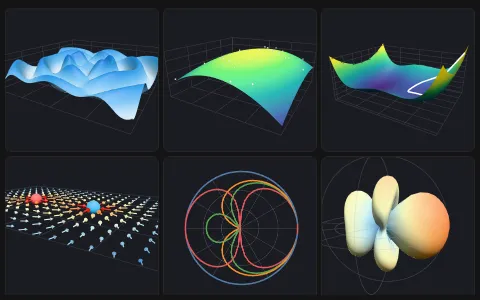
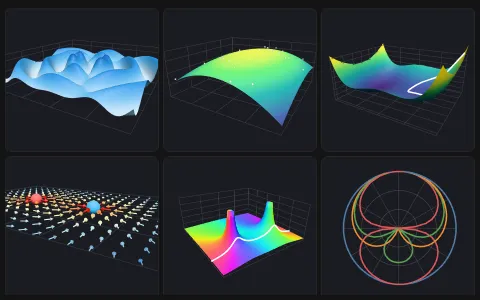
Domain colouring: a cyclic 'hue' colour scheme, height fn giving { y, ...fields } to colour by; science page gains a filter's poles and its frequency response

Changed region(s): [[0.375, 0.57, 0.6562, 0.96], [0.6875, 0.57, 0.9688, 0.96], [0.0, 0.15, 0.3438, 0.42]]

diff --git a/demos/science.js b/demos/science.js
@@ -28,6 +28,10 @@ const CARDS = [
     note: 'The field round two charges on a plane. Arrow lengths and colours follow the log of its strength. Change the second charge and the field swings.',
   },
   {
+    name: 'filter', title: 'A filter\'s poles',
+    note: 'A low-pass filter\'s transfer function over the complex s-plane: height its size |H(s)|, colour its phase, round the hue wheel. The two spikes are its poles. Along the white line - the imaginary axis, s = jω - the height is its frequency response: less damping pulls the poles towards it, and a resonance peak rises.',
+  },
+  {
     name: 'microphones', title: 'Microphone patterns',
     note: 'The datasheet picture: how a microphone hears from each direction, in dB, one curve per pattern - polar data, read off its labelled rings, with 0° - straight ahead - at the top and the angles turning clockwise, as angles: { zero, clockwise } sets them.',
   },
@@ -45,7 +49,7 @@ export default function run({ canvas }) {
   return cardPage({ canvas, cards: CARDS, examples: EXAMPLES, source })
 }
 
-const EXAMPLES = { waves, response, descent, field, microphones, antenna, orbitals }
+const EXAMPLES = { waves, response, descent, field, filter, microphones, antenna, orbitals }
 
 // waves
 function waves({ canvas, slider }) {
@@ -153,6 +157,51 @@ function field({ canvas, slider }) {
   })
   show()
   slider('second charge', -2, 2, p.q, (q) => { p.q = q; plot.update({ params: p }); show() }, 0.1)
+  return view
+}
+// end
+
+// filter
+function filter({ canvas, slider }) {
+  const view = new View({ canvas, orbit: true, background: BG, camera: { position: [13, 8.5, 9], target: [0, 0.8, 0] } })
+  const p = { frequency: 1, damping: 0.25 }
+  // H(s) = w0² / (s² + 2ζw0 s + w0²) at s = σ + jω: its size, capped where it runs off to the poles,
+  // and its phase
+  const CAP = 5
+  const H = (sigma, omega, { frequency: w, damping: d }) => {
+    const re = sigma * sigma - omega * omega + 2 * d * w * sigma + w * w, im = 2 * sigma * omega + 2 * d * w * omega
+    return { size: (w * w) / Math.hypot(re, im), phase: -Math.atan2(im, re) }
+  }
+  const ranges = { x: { domain: [-2, 0.5], title: 'σ' }, z: { domain: [-2, 2], title: 'jω' }, y: { domain: [0, CAP], title: '|H|' } }
+  const plot = view.scene.add(chart({
+    mark: 'surface', ...ranges, samples: 80, params: p, legend: false,
+    fn: (sigma, omega, params) => {
+      const h = H(sigma, omega, params)
+      return { y: Math.min(h.size, CAP), phase: h.phase }
+    },
+    color: { field: 'phase', scale: { scheme: 'hue', domain: [-Math.PI, Math.PI] } },
+  }))
+  // the frequency response: the surface along the imaginary axis, a hair above it
+  const pinned = (field, c) => ({ field, scale: { domain: c.domain, nice: false } })
+  const response = () => Array.from({ length: 161 }, (_, i) => {
+    const omega = -2 + i / 40
+    return { sigma: 0, omega, size: Math.min(H(0, omega, p).size, CAP) + 0.04 }
+  })
+  const line = view.scene.add(chart({
+    mark: 'curve', data: response(), x: pinned('sigma', ranges.x), z: pinned('omega', ranges.z), y: pinned('size', ranges.y),
+    // in the surface's box, not a curve's own cube
+    color: '#ffffff', size: 3, box: [10, 4, 10], equal: false, frame: false, tooltip: false, transition: false,
+  }))
+  view.scene.add(new Label({
+    content: tex('H(s) = \\frac{\\omega_0^2}{s^2 + 2\\zeta\\omega_0 s + \\omega_0^2}'), text: 'H(s) = w0² / (s² + 2ζ w0 s + w0²)',
+    position: [-5, 6, -5], edge: 'left', className: 'maths-tex', overlap: 'show',
+  }))
+  const show = () => {
+    plot.update({ params: p })
+    line.update(response())
+  }
+  slider('frequency ω₀', 0.5, 1.5, p.frequency, (v) => { p.frequency = v; show() })
+  slider('damping ζ', 0.12, 1, p.damping, (v) => { p.damping = v; show() }, 0.01)
   return view
 }
 // end

diff --git a/src/charts/functions.js b/src/charts/functions.js
@@ -158,7 +158,8 @@ export function sampleFunction(input) {
   return fail('chart()', `'fn' is plotted as mark: 'surface', 'curve', 'vector', 'line', 'area' or 'bar', not ${describe(mark)}`)
 }
 
-// y = fn(x, z): a height over the x-z grid
+// y = fn(x, z): a height over the x-z grid - or { y, ...fields }, the fields kept on the row to colour
+// by (a complex function's phase, say)
 /** @param {Record<string, any>} spec @param {(a: number, b: number) => any} call @param {any} samples @returns {Sampled} */
 function heights(spec, call, samples) {
   const x = axisRange(spec, 'x', true), z = axisRange(spec, 'z', true)
@@ -173,18 +174,28 @@ function heights(spec, call, samples) {
     const d = (a - b) / (2 * h)
     return Number.isFinite(d) ? d : 0
   }
+  // the height in what fn gives: the number, or its y
+  const height = (/** @type {any} */ v) => (typeof v === 'number' ? v : v && typeof v === 'object' && !Array.isArray(v) ? v.y : NaN)
   let k = 0
   for (let j = 0; j < nz; j++) {
     const zv = along(zr, j, nz)
     for (let i = 0; i < nx; i++) {
-      const xv = along(xr, i, nx), yv = call(xv, zv)
+      const xv = along(xr, i, nx), got = call(xv, zv), yv = height(got)
       // checked as it comes; the message made only when it is needed
-      if (typeof yv !== 'number' || !Number.isFinite(yv)) number(yv, `x ${round(xv)}, z ${round(zv)}`)
+      if (typeof yv !== 'number' || !Number.isFinite(yv)) number(got, `x ${round(xv)}, z ${round(zv)}`)
       // across the tangents along z and along x: (0, dy/dz, 1) x (1, dy/dx, 0)
-      normals[k * 3] = -slope(call(xv + hx, zv), call(xv - hx, zv), hx)
+      normals[k * 3] = -slope(height(call(xv + hx, zv)), height(call(xv - hx, zv)), hx)
       normals[k * 3 + 1] = 1
-      normals[k * 3 + 2] = -slope(call(xv, zv + hz), call(xv, zv - hz), hz)
-      rows[k++] = { x: xv, z: zv, y: yv }
+      normals[k * 3 + 2] = -slope(height(call(xv, zv + hz)), height(call(xv, zv - hz)), hz)
+      /** @type {Record<string, any>} */
+      const row = { x: xv, z: zv, y: yv }
+      if (typeof got === 'object') {
+        for (const key of Object.keys(got)) {
+          if (key === 'x' || key === 'z') fail('chart()', `fn's ${key} is the row's own - give the field to colour by another name`)
+          if (key !== 'y') row[key] = got[key]
+        }
+      }
+      rows[k++] = row
     }
   }
   return {
@@ -711,7 +722,7 @@ const round = (/** @type {number} */ v) => +v.toFixed(3)
 /** @param {any} v @param {string} where */
 function number(v, where) {
   if (typeof v !== 'number' || !Number.isFinite(v)) {
-    fail('chart()', `fn gave ${describe(v)} at ${where} - a surface's fn returns a finite number at every point (clamp it where it blows up)`)
+    fail('chart()', `fn gave ${describe(v)} at ${where} - a surface's fn returns a finite number at every point, or { y, ...fields to colour by } (clamp it where it blows up)`)
   }
   return v
 }

diff --git a/test/chart-functions.test.js b/test/chart-functions.test.js
@@ -594,3 +594,25 @@ describe('angles: where zero points, and which way they turn', () => {
     expect(() => normalise({ ...base, angles: 3 })).toThrow("'angles' is 'radians' (the default) or 'degrees', or { units, zero, clockwise }")
   })
 })
+
+describe('colour by a second value: a complex function\'s phase on the hue wheel', () => {
+  it('keeps the fields a height fn gives beside y, to colour by', () => {
+    const rows = normalise({ mark: 'surface', fn: (x, z) => ({ y: Math.hypot(x, z), phase: Math.atan2(z, x) }), x: [-1, 1], z: [-1, 1], samples: 3 }).rows
+    expect(rows[0]).toEqual({ x: -1, z: -1, y: Math.SQRT2, phase: Math.atan2(-1, -1) })
+    const c = chart({ mark: 'surface', fn: (x, z) => ({ y: x * z, phase: x }), x: [-1, 1], z: [-1, 1], samples: 5, color: { field: 'phase', scale: { scheme: 'hue', domain: [-1, 1] } } })
+    expect(c.spec.channels.color.field).toBe('phase')
+    // shaded by the height alone: a level y gives level normals, whatever the other field does
+    const flat = chart({ mark: 'surface', fn: (x) => ({ y: 0, phase: x * 9 }), x: [-1, 1], z: [-1, 1], y: [-1, 1], samples: 5 }).marks[0].geometry.normals
+    for (let i = 1; i < flat.length; i += 3) expect(Math.abs(flat[i])).toBeCloseTo(1, 6)
+    expect(() => normalise({ mark: 'surface', fn: () => ({ y: 1, x: 2 }), x: [0, 1], z: [0, 1] })).toThrow("fn's x is the row's own")
+    expect(() => normalise({ mark: 'surface', fn: () => ({ phase: 1 }), x: [0, 1], z: [0, 1] })).toThrow('or { y, ...fields to colour by }')
+  })
+
+  it('has a hue wheel that comes back round: the same colour at both ends of its domain', () => {
+    const wheel = chart({ mark: 'surface', fn: (x) => ({ y: 0, a: x }), x: [-Math.PI, Math.PI], z: [0, 1], samples: 9, color: { field: 'a', scale: { scheme: 'hue', domain: [-Math.PI, Math.PI] } } })
+    const color = /** @type {any} */ (wheel.scales.color)
+    expect(color(-Math.PI).getHex()).toBe(color(Math.PI).getHex())
+    // and goes all the way round between
+    expect(color(0).getHex()).not.toBe(color(Math.PI).getHex())
+  })
+})

diff --git a/src/charts/scales.js b/src/charts/scales.js
@@ -243,7 +243,19 @@ export function scaleBand({ domain, range = [0, 1], padding = 0.2, format }) {
   return scale
 }
 
-// colour schemes: categorical (Tableau 10) and ramps for numbers, as sRGB hex stops
+/**
+ * The sinebow at t (0 - 1) as sRGB hex: a colour wheel of even brightness, the same colour at both
+ * ends - for angles, which come back round.
+ * @param {number} t
+ */
+function sinebow(t) {
+  const a = 0.5 - t
+  const channel = (/** @type {number} */ k) => Math.round(255 * Math.sin(Math.PI * (a + k / 3)) ** 2).toString(16).padStart(2, '0')
+  return `#${channel(0)}${channel(1)}${channel(2)}`
+}
+
+// colour schemes: categorical (Tableau 10), ramps for numbers, and a wheel for angles (hue: its
+// first and last stops the same, so a phase or a direction wraps round without a seam), as sRGB hex stops
 export const SCHEMES = {
   category: ['#4e79a7', '#f28e2b', '#59a14f', '#e15759', '#76b7b2', '#edc948', '#b07aa1', '#ff9da7', '#9c755f', '#bab0ac'],
   viridis: ['#440154', '#3b528b', '#21918c', '#5ec962', '#fde725'],
@@ -251,6 +263,7 @@ export const SCHEMES = {
   heat: ['#2c7bb6', '#abd9e9', '#ffffbf', '#fdae61', '#d7191c'],
   cool: ['#f7fcf0', '#ccebc5', '#7bccc4', '#2b8cbe', '#084081'],
   redblue: ['#b2182b', '#ef8a62', '#f7f7f7', '#67a9cf', '#2166ac'],
+  hue: Array.from({ length: 13 }, (_, i) => sinebow(i / 12)),
 }
 
 /**
